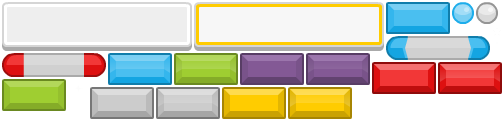
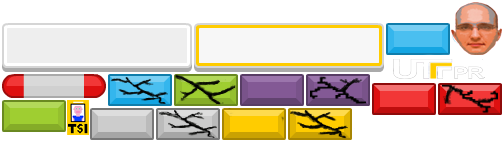
Nova bola,  paddle, brick quebrados e power up.
Tamanho da bola aumentado para melhor visibilidade do novo sprite, novo sprite de power up (crachá), novo sprite de paddle  e sprites de bricks quebrados para serem implementados após o peimeiro hit, em um brick, que seria necessário 2 hits para ser quebrado.(Sprites dos bricks quebrados não foram implementados)

diff --git a/index.html b/index.html
@@ -329,7 +329,7 @@
 
             //pu.disableBody(true, true);
             //pu.setActive(false).setVisible(false); // Este é muito louco
-            ball = this.physics.add.image(pu.x, pu.y, 'assets', 'ball2').setCollideWorldBounds(true).setBounce(1);
+            ball = this.physics.add.image(pu.x, pu.y, 'assets', 'ball1').setCollideWorldBounds(true).setBounce(1);
             emitter.startFollow(ball);
 
             if (Math.random() > 0.5) {
